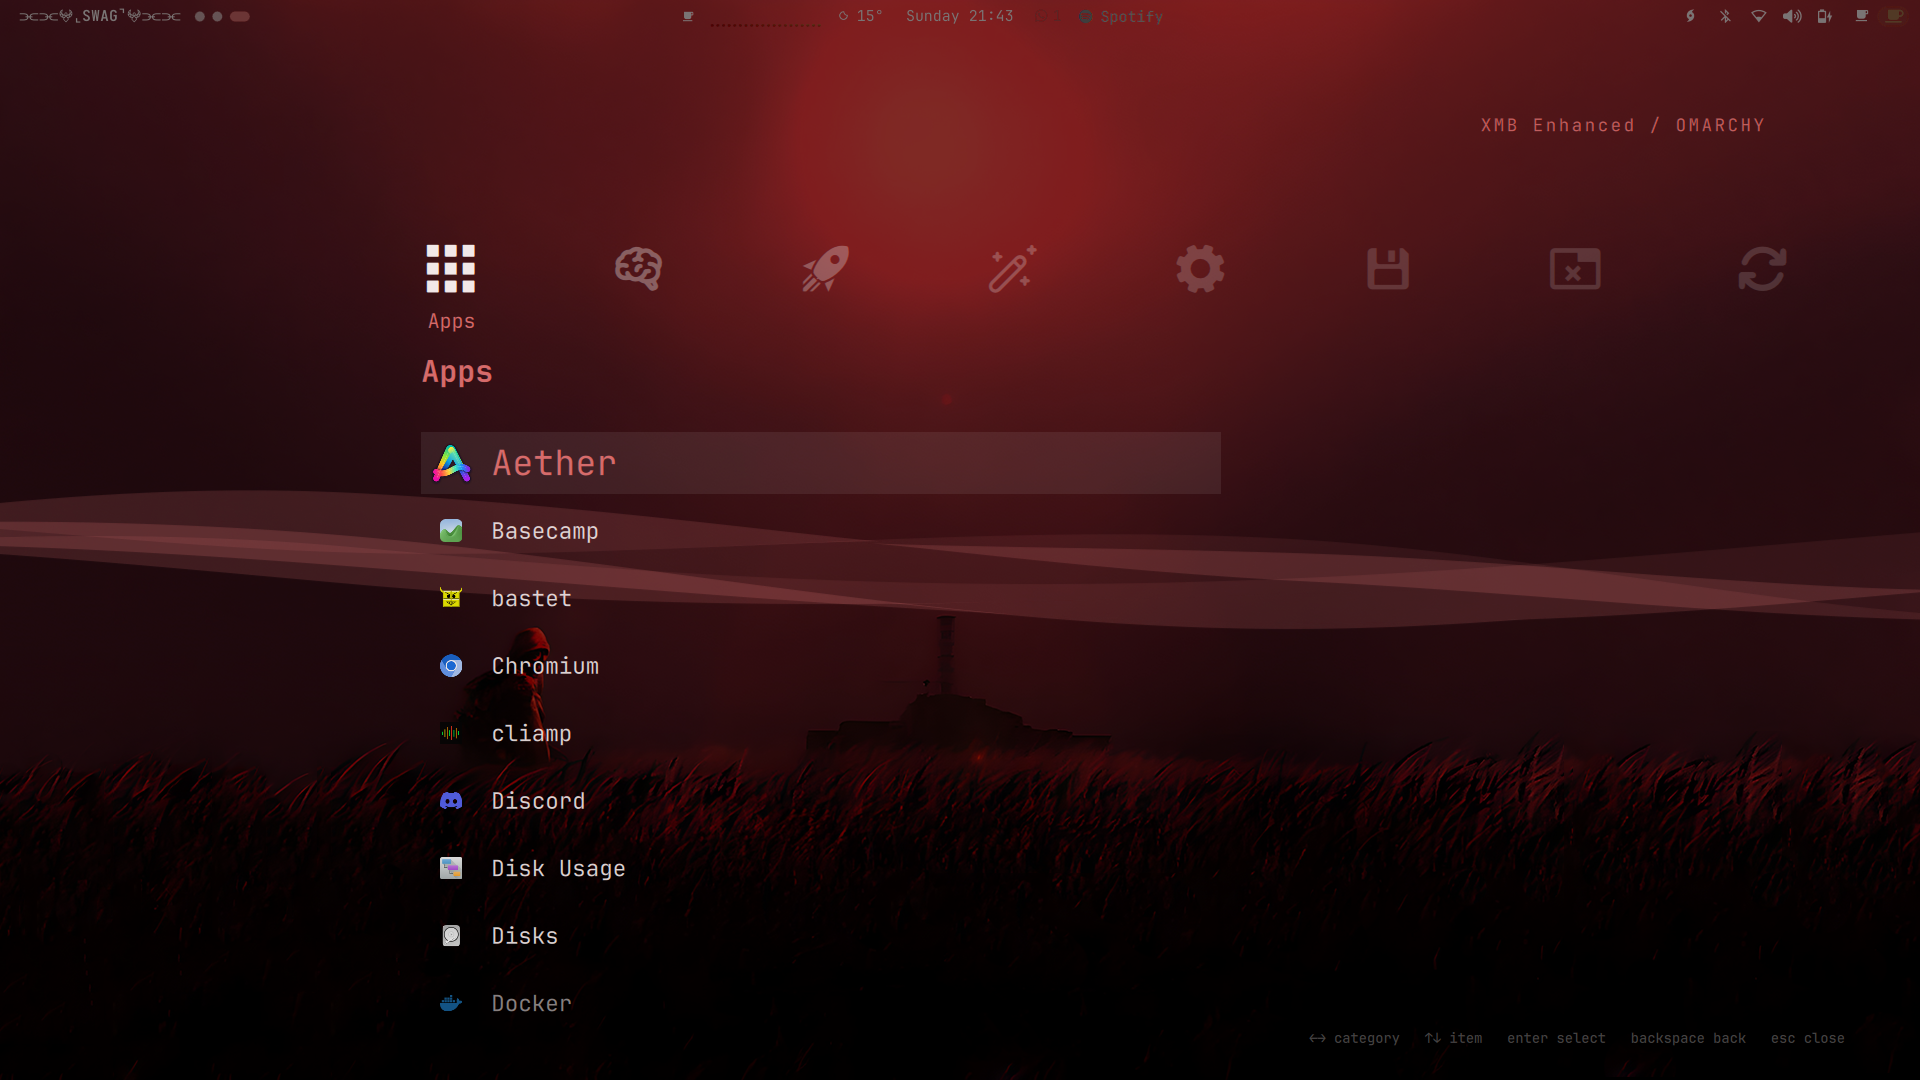
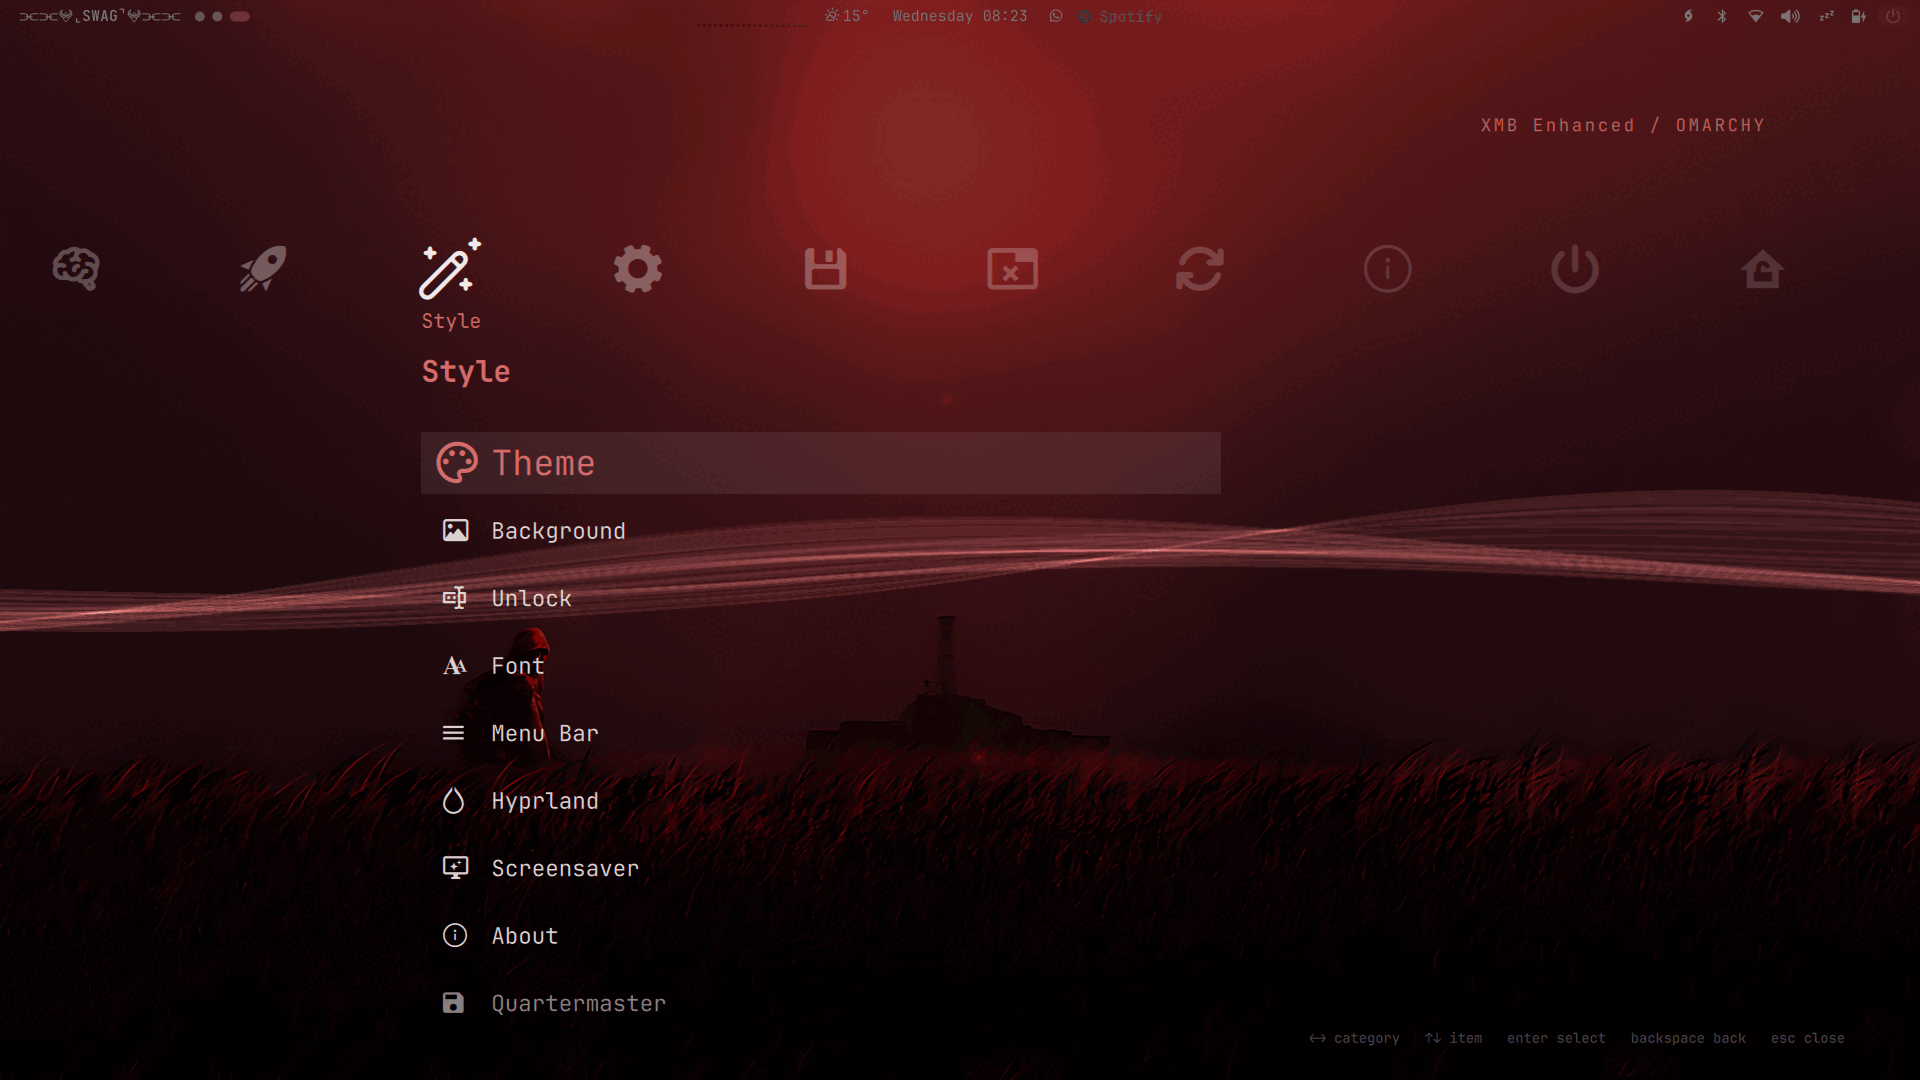
Refresh preview and screenshots
New captures of the ribbon menu: preview.png now shows the Style category,
screenshots/apps.png the app list, and the submenu and ribbon-control shots are
retaken.

- submenu.png -> submenus.png, ribboncontrols.png -> ribboncontrol.png, with
  the README image links updated to match
- palette-reduced to 256 colours: 1.2MB -> ~320KB each, 4.82MB -> 1.25MB total.
  The marketplace scanner rejects oversized images (it rejected these before at
  2MB); dimensions and visible quality are unchanged.

diff --git a/README.md b/README.md
@@ -19,7 +19,7 @@ takes the theme's accent colour.
 
 | Apps | Setup | Ribbon controls |
 |------|-------|----------------|
-| ![Apps category/App list](screenshots/apps.png) | ![Setup Category Menu](screenshots/submenu.png) | ![Ribbon Controls](screenshots/ribboncontrols.png) |
+| ![Apps category/App list](screenshots/apps.png) | ![Setup Category Menu](screenshots/submenus.png) | ![Ribbon Controls](screenshots/ribboncontrol.png) |
 
 ## What's new in v1.6
 
